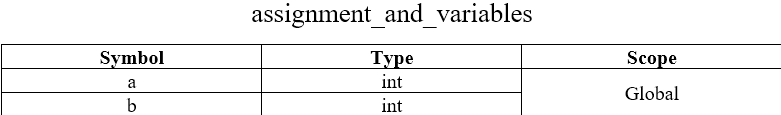
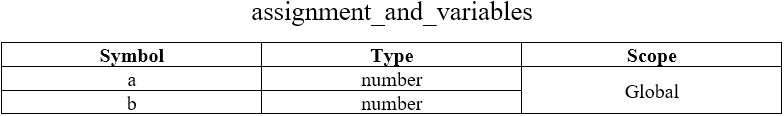
Changes: 1) main.py: Added delarations and function calls to print Symbol Table 2) symtab.py: Changes in code to print out prettier table, also prints out Type of the Symbols 3) Symbol Tables folder: Changes in most of the pictures to better suit the case of the project

diff --git a/compiler/symtab.py b/compiler/symtab.py
@@ -4,10 +4,22 @@ class SymTab:
         self.functions = functions
 
     def draw(self):
-        data = self.variables
-        data.extend(self.functions)
+        data = []
 
-        print("Symbol")
-        print("--------------------")
-        for value in data:
-            print(value)
+        for var in self.variables.keys():
+            instance = []
+            instance.append(var)
+            instance.append('Number')
+            data.append(instance)
+        for func in self.functions.keys():
+            instance = []
+            instance.append(func)
+            instance.append('Function')
+            data.append(instance)
+
+        print("+" + '-'*22 + "+" + '-'*22 + "+" + '-'*22 + "+")
+        print("| {:<20} | {:<20} | {:<20} |".format('Symbol', 'Type', 'Scope'))
+        print("+" + '-'*22 + "+" + '-'*22 + "+" + '-'*22 + "+")
+        for res in data:
+            print("| {:<20} | {:<20} | {:<20} |".format(res[0], res[1], 'Global'))
+        print("+" + '-'*22 + "+" + '-'*22 + "+" + '-'*22 + "+")

diff --git a/compiler/main.py b/compiler/main.py
@@ -95,12 +95,10 @@ except (BaseException, Exception):
 finally:
     write(syntaxRoot, "SyntaxAnalyzer")
     write(semanticRoot, "SemanticAnalyzer")
-    print("------------------------------Declared Variables & Functions are:------------------------------")
+    print("\n------------------------------Declared Variables & Functions are:------------------------------")
     pprint(SymbolTable.variables)
     pprint(SymbolTable.functions)
 
-    var = [str(var_key) for var_key in SymbolTable.variables.keys()]
-    func = [str(func_key) for func_key in SymbolTable.functions.keys()]
-    symTab = SymTab(var, func)
-    print("------------------------------Symbol Table(s):------------------------------")
+    symTab = SymTab(SymbolTable.variables, SymbolTable.functions)
+    print("\n-----------------------------------------Symbol Table:-----------------------------------------")
     SymTab.draw(symTab)
